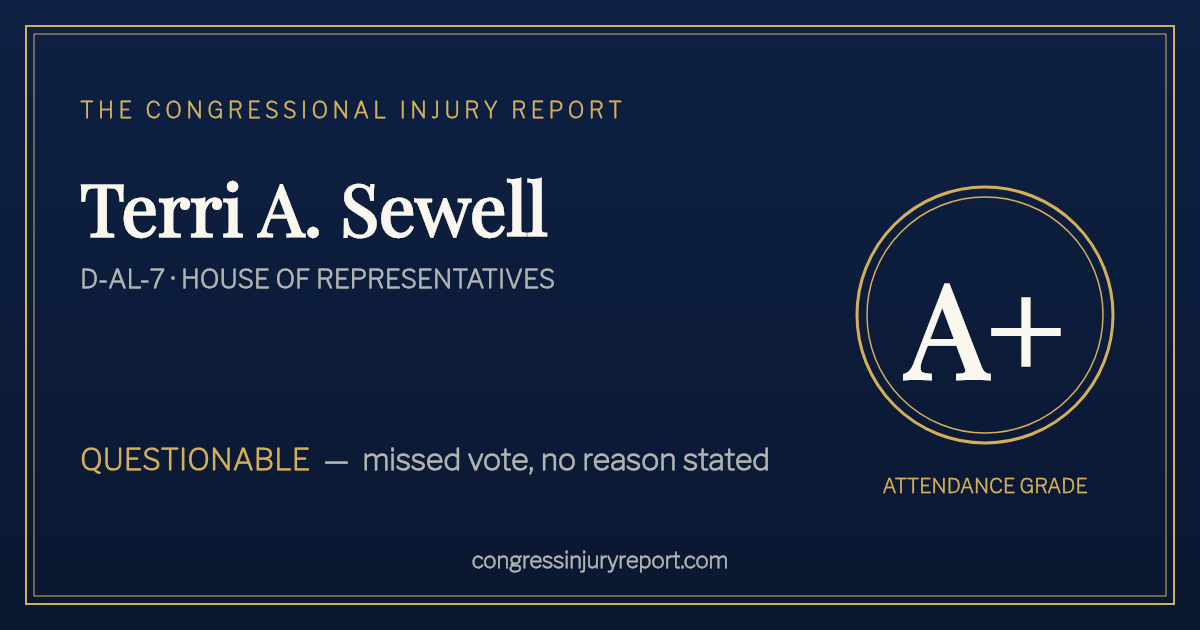
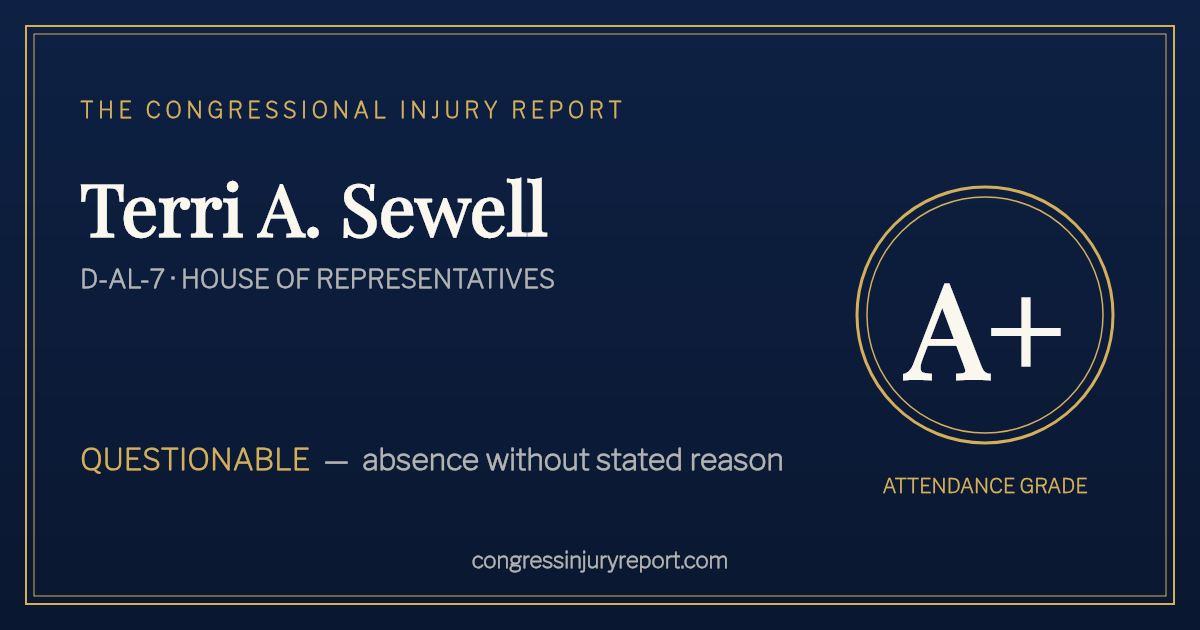
Daily report 2026-08-03

Changed region(s): [[0.3083, 0.6937, 0.6475, 0.754]]

diff --git a/site/m/S001185.html b/site/m/S001185.html
@@ -3,7 +3,7 @@
 <meta charset="utf-8">
 <title>Terri A. Sewell — A+ | Congressional Injury Report</title>
 <meta property="og:title" content="Terri A. Sewell: A+">
-<meta property="og:description" content="QUESTIONABLE — missed vote, no reason stated. 99.3% attendance this session (2 votes missed).">
+<meta property="og:description" content="QUESTIONABLE — absence without stated reason. 99.3% attendance this session (2 votes missed).">
 <meta property="og:image" content="https://congressinjuryreport.com/og/S001185.png">
 <meta property="og:url" content="https://congressinjuryreport.com/m/S001185.html">
 <meta property="og:type" content="profile">
